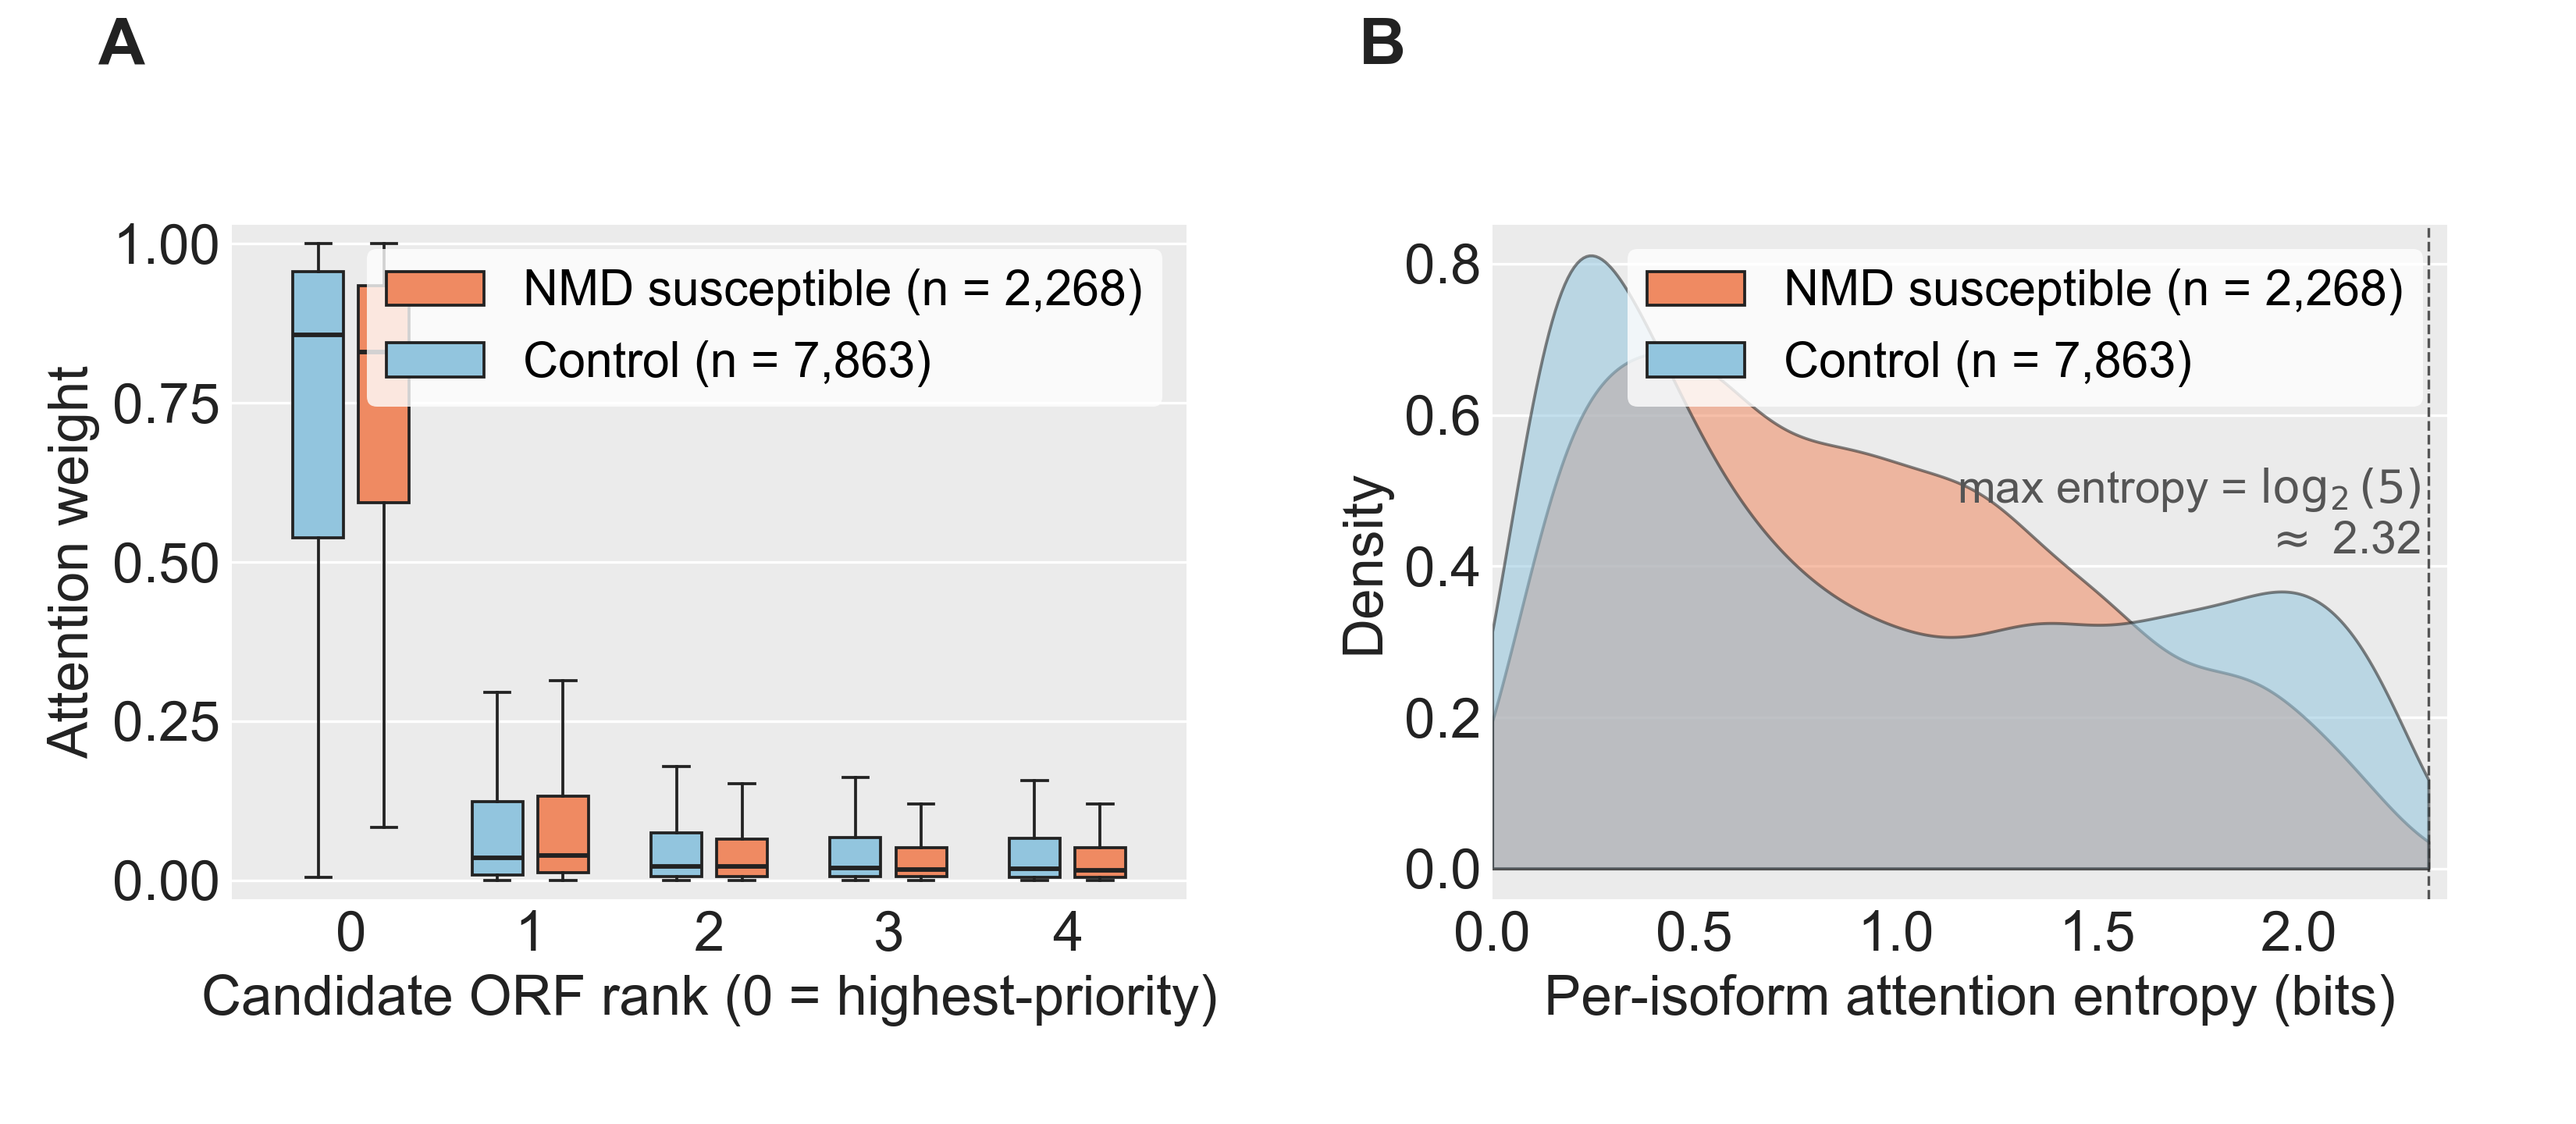
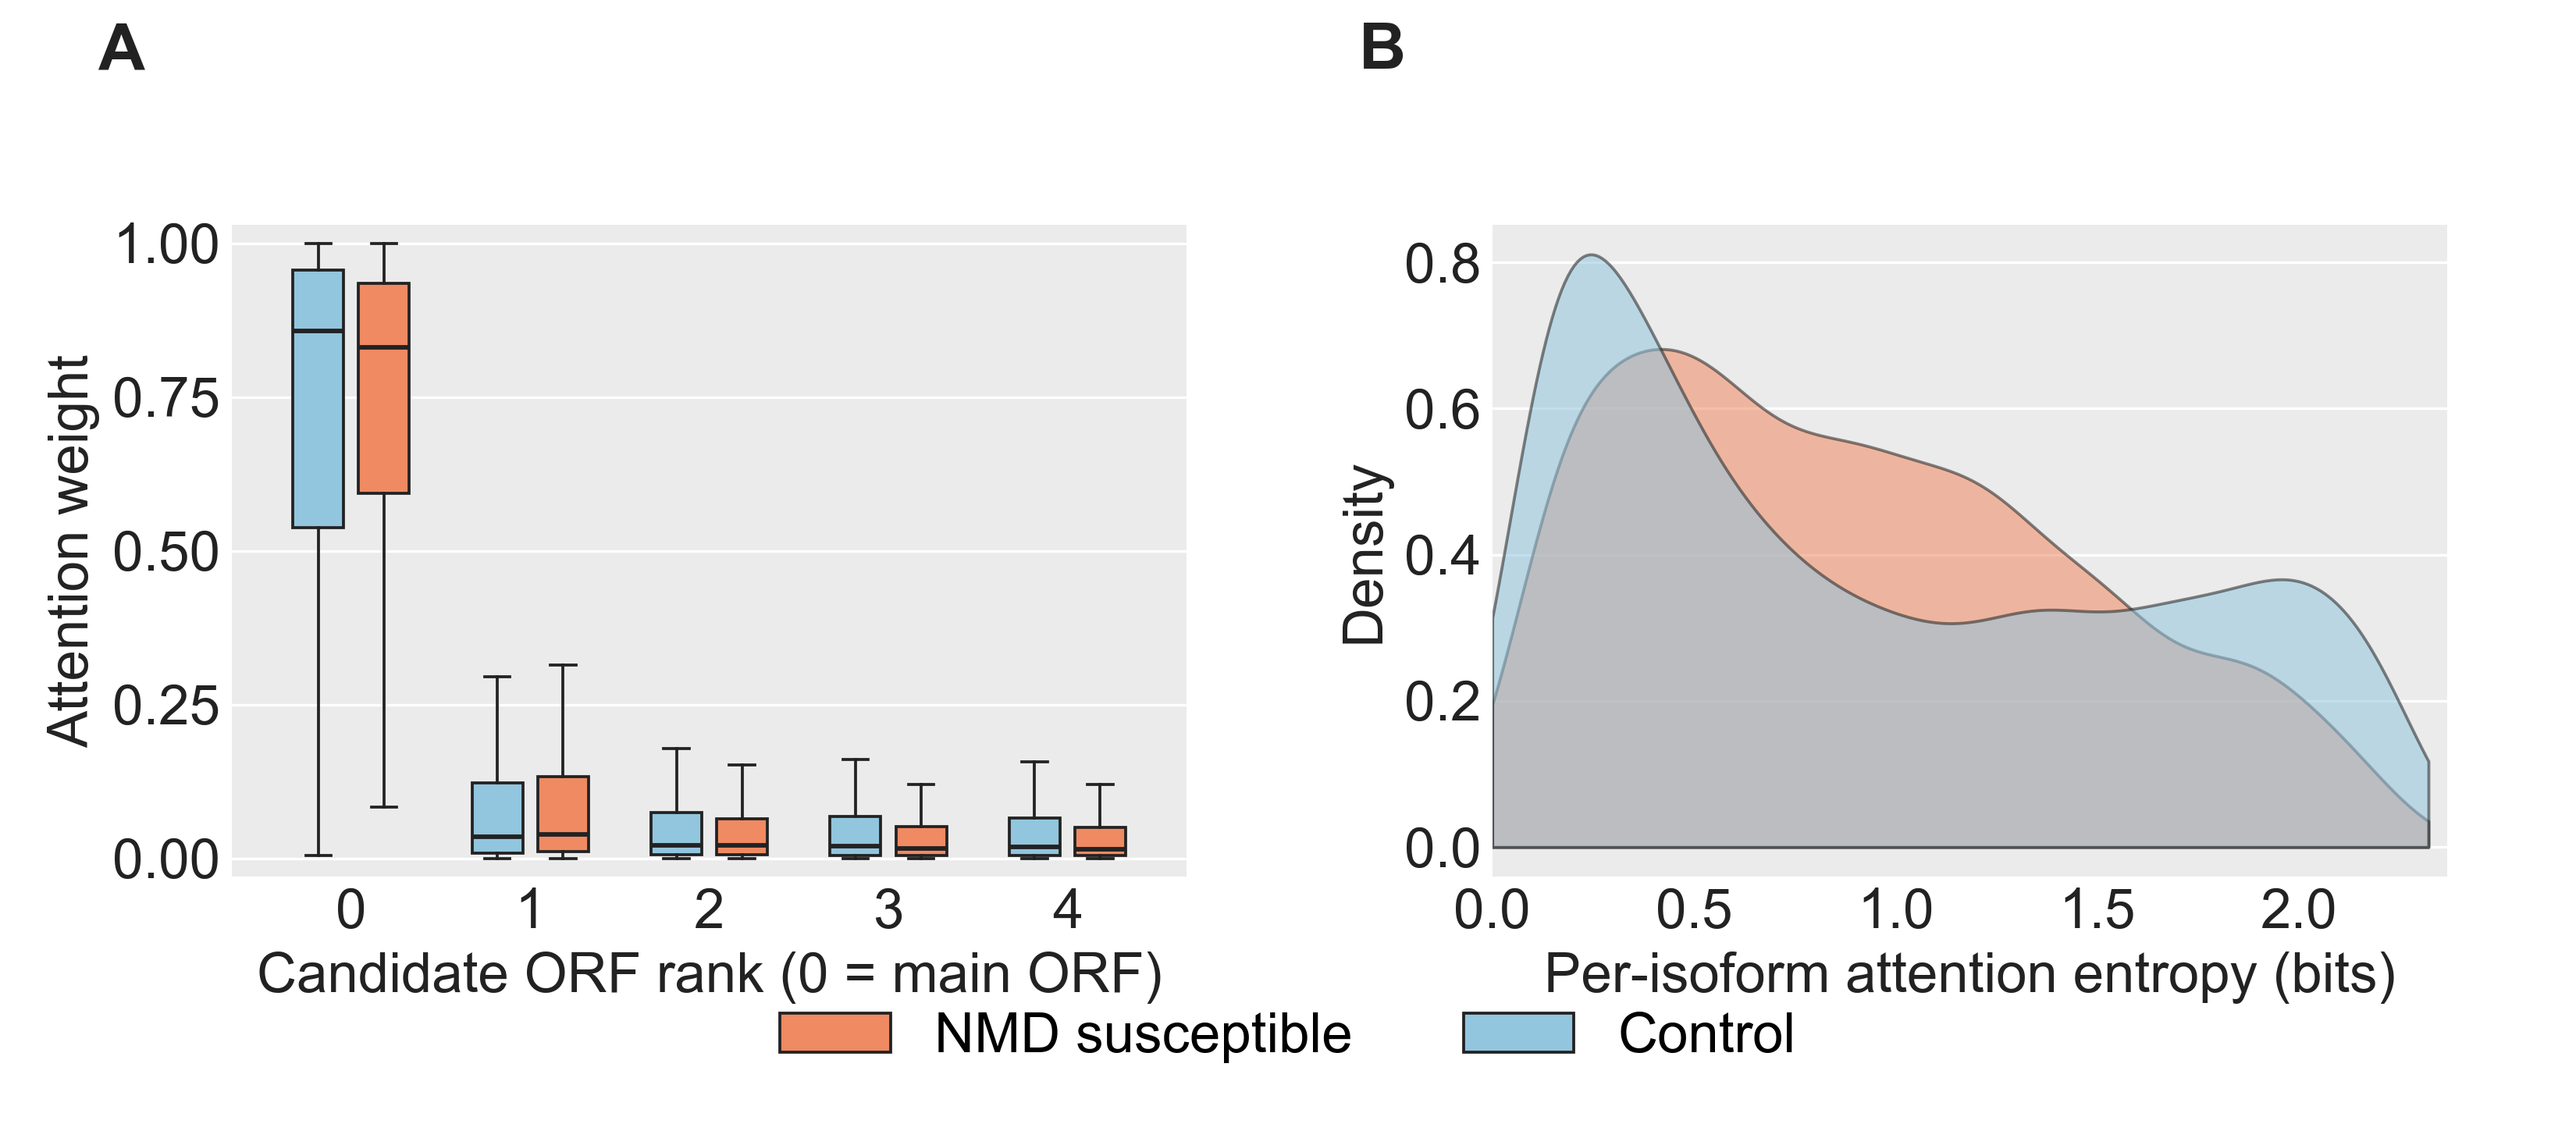
SF38: concise legend, shared bottom legend, drop max-entropy annotation
- #3: replace verbose legend with concise version; rank-0 = 'main ORF'; ORF abbrev
- #4: both per-panel legends overlapped data -> one shared figure-level legend
      at the bottom (sample sizes move to the caption)
- #5: drop the 'max entropy = log2(5)' text; also removed its now-orphaned
      edge axvline
- x-label '(0 = highest-priority)' -> '(0 = main ORF)'

diff --git a/figures/SupplementalFigures/SF38_AttentionDistribution/figure_s_attention_distribution.py b/figures/SupplementalFigures/SF38_AttentionDistribution/figure_s_attention_distribution.py
@@ -84,9 +84,6 @@ def shannon_entropy(row):
 def render_panel_A(ax, df):
     style_axes_ggplot(ax, xgrid=False, ygrid=True)
 
-    n_nmd  = int((df["label"] == 1).sum())
-    n_ctrl = int((df["label"] == 0).sum())
-
     positions_ctrl = np.arange(N_ORFS) * 3 - 0.55
     positions_nmd  = np.arange(N_ORFS) * 3 + 0.55
 
@@ -113,21 +110,11 @@ def render_panel_A(ax, df):
     ax.set_xlim(-2, (N_ORFS - 1) * 3 + 2)
     ax.set_ylim(-0.03, 1.03)
     ax.set_yticks([0, 0.25, 0.5, 0.75, 1.0])
-    ax.set_xlabel("Candidate ORF rank (0 = highest-priority)",
+    ax.set_xlabel("Candidate ORF rank (0 = main ORF)",
                    fontsize=BODY_FS, color=TITLE_C)
     ax.set_ylabel("Attention weight",
                    fontsize=BODY_FS, color=TITLE_C)
     ax.tick_params(axis="y", labelsize=BODY_FS, colors=TITLE_C)
-
-    handles = [
-        plt.Rectangle((0, 0), 1, 1, facecolor=COLOR_NMD,  edgecolor=TITLE_C,
-                      linewidth=0.9, label=f"NMD susceptible (n = {n_nmd:,})"),
-        plt.Rectangle((0, 0), 1, 1, facecolor=COLOR_CTRL, edgecolor=TITLE_C,
-                      linewidth=0.9, label=f"Control (n = {n_ctrl:,})"),
-    ]
-    ax.legend(handles=handles, loc="upper right", frameon=True,
-              facecolor="white", edgecolor="none",
-              fontsize=BODY_FS - 2)
 
 
 def render_panel_B(ax, df):
@@ -146,36 +133,18 @@ def render_panel_B(ax, df):
         ax.fill_between(x_grid, y, alpha=0.55, color=color,
                         edgecolor=TITLE_C, linewidth=0.9, zorder=3)
 
-    ax.axvline(max_ent, linestyle="--", color=AXIS_C, linewidth=0.8, zorder=2)
-    # Use mathtext for the subscript — the Unicode ₂ glyph is missing in
-    # the current font (Arial), so matplotlib substitutes a fallback box.
-    ax.text(max_ent - 0.02, ax.get_ylim()[1] * 0.55,
-            f"max entropy = $\\log_2({N_ORFS})$\n$\\approx$ {max_ent:.2f}",
-            ha="right", va="center",
-            fontsize=BODY_FS - 3, color=AXIS_C)
-
     ax.set_xlim(0, max_ent * 1.02)
     ax.set_xlabel("Per-isoform attention entropy (bits)",
                    fontsize=BODY_FS, color=TITLE_C)
     ax.set_ylabel("Density", fontsize=BODY_FS, color=TITLE_C)
     ax.tick_params(axis="both", labelsize=BODY_FS, colors=TITLE_C)
 
-    handles = [
-        plt.Rectangle((0, 0), 1, 1, facecolor=COLOR_NMD,  edgecolor=TITLE_C,
-                      linewidth=0.9, label=f"NMD susceptible (n = {len(e_nmd):,})"),
-        plt.Rectangle((0, 0), 1, 1, facecolor=COLOR_CTRL, edgecolor=TITLE_C,
-                      linewidth=0.9, label=f"Control (n = {len(e_ctrl):,})"),
-    ]
-    ax.legend(handles=handles, loc="upper right", frameon=True,
-              facecolor="white", edgecolor="none",
-              fontsize=BODY_FS - 2)
-
 
 def build_figure():
     df = load()
 
     fig, (axA, axB) = plt.subplots(1, 2, figsize=(NATIVE_W, 4.8))
-    fig.subplots_adjust(left=0.09, right=0.95, top=0.80, bottom=0.20,
+    fig.subplots_adjust(left=0.09, right=0.95, top=0.80, bottom=0.22,
                         wspace=0.32)
 
     render_panel_A(axA, df)
@@ -183,6 +152,18 @@ def build_figure():
 
     panel_letter(axA, "A", x=-0.14, y=1.22)
     panel_letter(axB, "B", x=-0.14, y=1.22)
+
+    # Shared legend in the bottom margin — both panels share the same two
+    # series; per-panel legends overlapped the boxes/density. Sample sizes
+    # live in the caption, so the legend carries only the class colors.
+    handles = [
+        plt.Rectangle((0, 0), 1, 1, facecolor=COLOR_NMD,  edgecolor=TITLE_C,
+                      linewidth=0.9, label="NMD susceptible"),
+        plt.Rectangle((0, 0), 1, 1, facecolor=COLOR_CTRL, edgecolor=TITLE_C,
+                      linewidth=0.9, label="Control"),
+    ]
+    fig.legend(handles=handles, loc="lower center", ncol=2, frameon=False,
+               fontsize=BODY_FS, bbox_to_anchor=(0.5, 0.01))
 
     return fig, df
 

diff --git a/figures/SupplementalFigures/SF38_AttentionDistribution/figure_s_attention_distribution_legend.md b/figures/SupplementalFigures/SF38_AttentionDistribution/figure_s_attention_distribution_legend.md
@@ -1,7 +1,1 @@
-**SF38 | Attention Distribution Across the Model's Five Candidate Open Reading Frames, NMD Susceptible vs Non-NMD.** The deep-learning model evaluates each transcript at up to five candidate open reading frames and learns an attention weight for each. The candidates are ranked by a priority rule that prefers the annotated reference CDS first (projected from the gene's dominant non-NMD isoform when available), then the TransDecoder2-called CDS, then the open reading frame with the strongest Kozak start context. Most attention concentrates at the main (rank-0) open reading frame in both classes.
-
-(A) Attention weight per candidate open reading frame rank, by class (NMD susceptible in coral, non-NMD in blue). Most attention concentrates at the rank-0 open reading frame in both classes (median ~0.74–0.76). The median rank-0 attention is slightly lower in NMD, with a corresponding shift of attention onto ranks 1–4 and a long tail of NMD isoforms placing more than 25% of attention on a non-rank-0 candidate.
-
-(B) Shannon entropy of the per-isoform attention vector across the five candidate open reading frames (higher entropy, more broadly distributed attention). The NMD density is shifted toward higher entropy than the Control density, quantifying the broader spread shown in Panel A.
-
-Abbreviations. NMD, nonsense-mediated decay.
+**SF38 | Attention Distribution Across the Model's Five Candidate ORFs, NMD Susceptible vs Non-NMD.** Held-out test set (NMD n = 2,268; Control n = 7,863). ORF candidates are ranked by the priority described in Methods; rank-0 is the main ORF. (A) Attention weight per candidate ORF rank, by class. (B) Shannon entropy of the per-isoform attention vector across the five candidates; higher entropy indicates more broadly distributed attention. Abbreviations. ORF, open reading frame.
